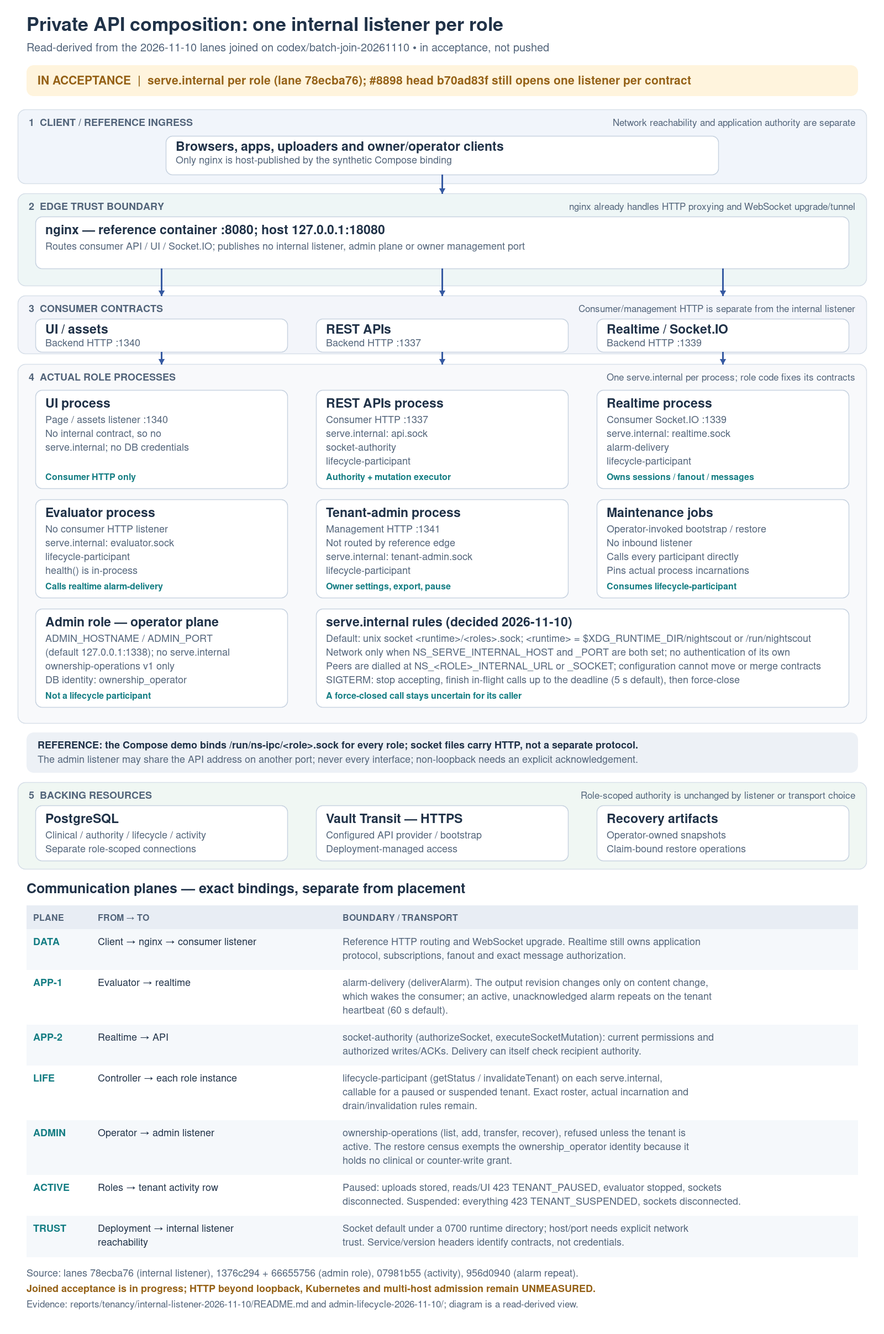
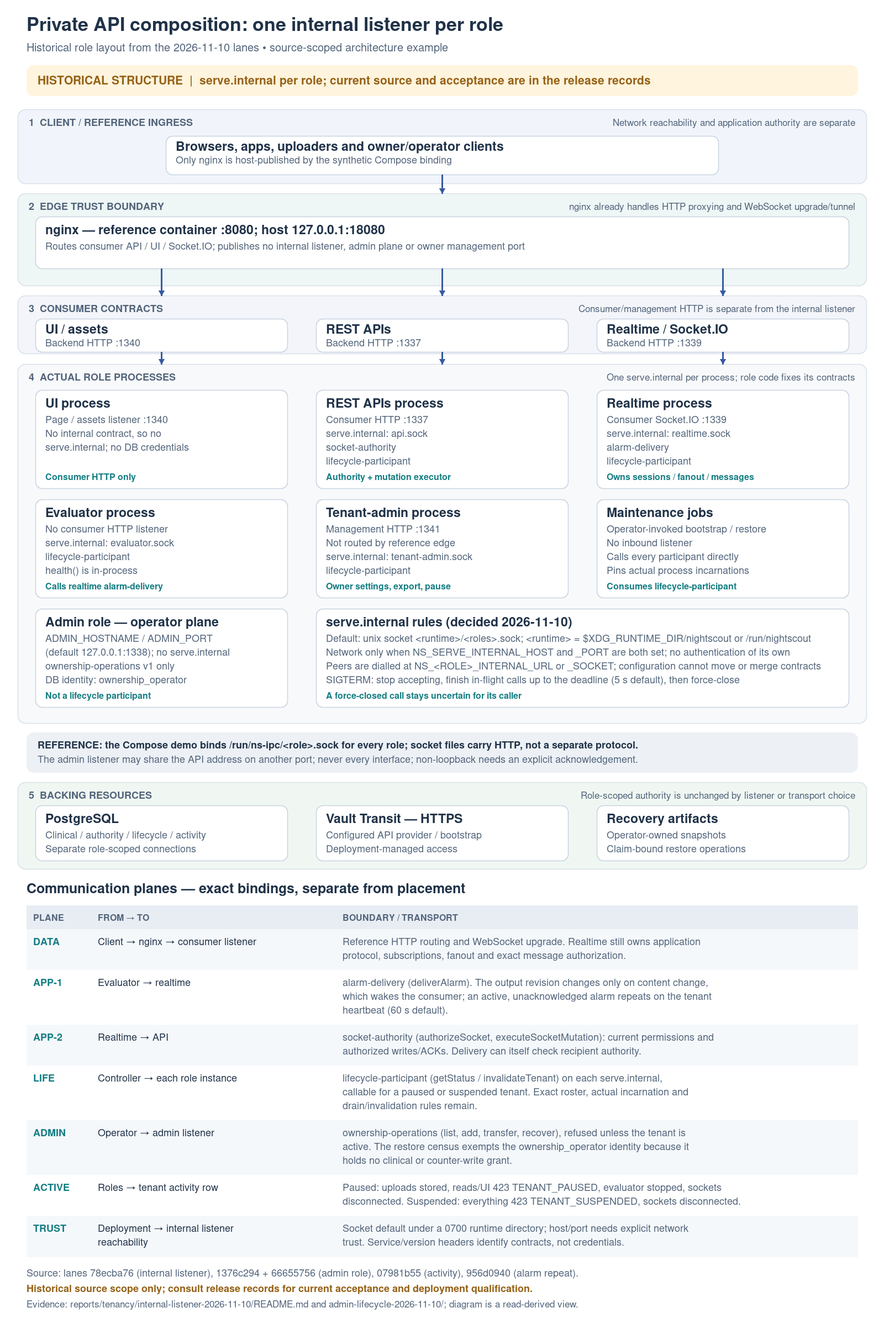
Simplify topology guidance and clarify diagram scope

diff --git a/tools/site/render_tenancy_topologies.py b/tools/site/render_tenancy_topologies.py
@@ -137,8 +137,8 @@ def accepted():
 
 
 def current():
-    p = Plate('Private API composition: one internal listener per role', 'Read-derived from the 2026-11-10 lanes joined on codex/batch-join-20261110 • in acceptance, not pushed',
-        'IN ACCEPTANCE  |  serve.internal per role (lane 78ecba76); #8898 head b70ad83f still opens one listener per contract', True)
+    p = Plate('Private API composition: one internal listener per role', 'Historical role layout from the 2026-11-10 lanes • source-scoped architecture example',
+        'HISTORICAL STRUCTURE  |  serve.internal per role; current source and acceptance are in the release records', True)
     p.zone(198, 134, '1  CLIENT / REFERENCE INGRESS', 'Network reachability and application authority are separate', '#f1f5fb')
     p.card(300, 246, 1000, 'Browsers, apps, uploaders and owner/operator clients', ['Only nginx is host-published by the synthetic Compose binding'], h=70)
     p.arrow([(800,316),(800,350)])
@@ -183,13 +183,13 @@ def current():
         ('TRUST','Deployment → internal listener reachability','Socket default under a 0700 runtime directory; host/port needs explicit network trust. Service/version headers identify contracts, not credentials.'),
     ])
     p.text(48,y+36,'Source: lanes 78ecba76 (internal listener), 1376c294 + 66655756 (admin role), 07981b55 (activity), 956d0940 (alarm repeat).',18,MUTED)
-    p.text(48,y+64,'Joined acceptance is in progress; HTTP beyond loopback, Kubernetes and multi-host admission remain UNMEASURED.',18,AMBER,'600')
+    p.text(48,y+64,'Historical source scope only; consult release records for current acceptance and deployment qualification.',18,AMBER,'600')
     p.text(48,y+92,'Evidence: reports/tenancy/internal-listener-2026-11-10/README.md and admin-lifecycle-2026-11-10/; diagram is a read-derived view.',17,MUTED)
     return p.finish(y+105,'current-internal-api-topology')
 
 
 def proposed():
-    p=Plate('Proposed fixed-roster API-scale target','One serve.internal per role instance • deployment-selected socket or host/port • exact maintenance instances','PROPOSED SCALE — NOT IMPLEMENTED  |  Starts from one internal listener per role (in acceptance)',True)
+    p=Plate('Fixed-roster API-scale placement example','One serve.internal per role instance • deployment-selected socket or host/port • exact maintenance instances','PLACEMENT EXAMPLE  |  Replica mechanisms and qualification are separate; no capacity or production claim',True)
     p.zone(198,115,'1  PUBLIC / DMZ', 'DNS supplies reachability, not permission', '#f1f5fb')
     p.card(300,241,1000,'Clients / browsers → public DNS name',['Permanent or temporary name binds to current tenant/access policy'],h=64)
     p.arrow([(800,305),(800,332)])
@@ -221,8 +221,8 @@ def proposed():
     p.text(68,1387,'OIDC IdP ↔ optional shared human-session integration: separate current-authority adapter; no implicit DATA/root grant.',19,MUTED)
     y=p.table(1472,[
         ('DATA','Edge → UI / API service / realtime','TLS public ingress; tenant selection, current access policy and client authority still apply. Public operator ingress is forbidden.'),
-        ('N1','Realtime → REST service → replica A or B','socket-authority on each replica serve.internal; replica routing is proposed. Deployment controls access; existing tenant/client authority remains.'),
-        ('N2','Evaluator singleton → realtime singleton','Same alarm-delivery contract over selected binding. Remote deployment acceptance remains open. Realtime replication needs separate fanout ownership.'),
+        ('N1','Realtime → REST service → replica A or B','socket-authority on each replica serve.internal; the binding selects routing. Deployment controls access; existing tenant/client authority remains.'),
+        ('N2','Evaluator singleton → realtime singleton','Same alarm-delivery contract over selected binding. Qualify the selected remote binding. Realtime replication needs separate fanout ownership.'),
         ('C1…C5','Controller → each exact role instance','lifecycle-participant on each instance serve.internal. Complete roster and pinned incarnation remain mandatory; a load-balanced sample is insufficient.'),
         ('OPS','Monitoring → each private listener','Proposed health/readiness/metrics contract on serve.internal with fixed method/path registration and operation-specific lifetime rules. No metrics API is implied by a worker box.'),
         ('EDGE','nginx / gateway → decision projection','Optional JSON/status/header projection of existing application authority for gateway consumers. Direct app-to-app APIs keep the same authority without a mandatory gateway hop or authentication redesign. Message/write gates remain.'),
@@ -230,7 +230,7 @@ def proposed():
         ('OWNER','Owner client → authenticated private control','Separately authenticated listener or admitted edge route. Optional OIDC requires its own joined provider/session acceptance; operator control remains private.'),
         ('ADMIN','Operator → admin listener','ownership-operations on the operator plane (ADMIN_HOSTNAME/ADMIN_PORT) with its own ownership_operator identity; not a lifecycle participant and not scaled with API replicas.'),
     ])
-    p.text(48,y+36,'Remaining: operational contract, remote binding qualification, fixed-roster replicas and their acceptance (work plan).',18,AMBER,'600')
+    p.text(48,y+36,'Qualify the selected binding, exact replica roster and operating limits; use release records for current work state.',18,AMBER,'600')
     p.text(48,y+64,'Acceptance: public/private isolation, no self-blocking control drain, exact roster, replacement, ambiguity and pool/load bounds.',18,MUTED)
     p.text(48,y+92,'No dynamic API membership, replicated realtime or production/HA claim. MT-EVALUATOR-PARTITION is separate M7 work.',18,AMBER,'600')
     p.text(48,y+120,'Design source: docs/30-design/tenancy/runtime-topology.md and selectable-endpoints-and-api-scaling-plan.md.',17,MUTED)

diff --git a/docs/30-design/tenancy/runtime-topology.md b/docs/30-design/tenancy/runtime-topology.md
@@ -7,6 +7,40 @@ records. This Markdown generates the site's `runtime-topology.html`. The
 implementation and acceptance criteria; the [queue](../../../queue/work-queue.yaml)
 owns claimed work state. A diagram is not deployment or capacity acceptance.*
 
+## Reuse the components across profiles
+
+A deployment profile selects where the same roles run and how they share work.
+Configuration can select a supported capability. It cannot supply missing ownership,
+migration or recovery behavior.
+
+```mermaid
+flowchart TB
+  R["Reusable roles: API, evaluator, realtime, admin and change feed"]
+  R --> S["Small group<br/>Roles can share a host"]
+  R --> O["Operator deployment<br/>Scale roles separately"]
+  R -.-> F["Proposed fleet<br/>Several bounded deployment groups"]
+  S --> C["Same authority, write, ownership and recovery contracts"]
+  O --> C
+  F -.-> C
+```
+
+The arrows show composition choices, not an upgrade sequence or a capacity claim.
+Fleet placement and tenant moves need separate design and qualification.
+The [scale envelopes](#scale-envelopes-and-fleet-planning) define the evidence needed
+for each profile. The [deployment guide](deployment-bindings-and-public-names.md#experiment-rigs-and-deployment-recipes)
+distinguishes experimental rigs from operating recipes.
+
+| Term | Meaning here |
+|---|---|
+| Role | A responsibility, such as serving API requests or evaluating tenant data. |
+| Replica | Another instance of a role. It needs a valid work-assignment rule. |
+| Cohort | The declared processes that cooperate on a workload and its maintenance. |
+| Instance / incarnation | An actual process / one lifetime of that process. A replacement has a new incarnation. |
+| Shard / partition | A selected share of tenant work. The role's assignment rule determines its owner. |
+| Cell | A proposed bounded deployment, datastore and recovery unit. Several cells could form a fleet. |
+| Admission / fencing | Checks that permit work / controls that prevent an old or invalid actor from continuing it. |
+| Hint / checkpoint | A signal to inspect authoritative state / a position or revision in a named input stream or snapshot. Its contract states what completion it proves. |
+
 ## Read the diagrams
 
 The three plates preserve different architectural scopes: the historical accepted
@@ -64,15 +98,15 @@ lifecycle-participant; realtime serves alarm-delivery and lifecycle-participant;
 tenant-admin serve lifecycle-participant. A process with no contract (UI) opens none. The default is a
 unix socket under the runtime directory; host/port is set explicitly by environment. On shutdown the
 listener finishes in-flight calls up to a deadline ([graceful shutdown](../../../releases/cgm-remote-monitor-16.0.0/decisions.md#internal-listener-graceful-shutdown)).
-The `admin` role keeps its own operator-plane listener (`ADMIN_HOSTNAME`/`ADMIN_PORT`) for
-ownership operations, with its own `ownership_operator` database identity; it is not a lifecycle
-participant ([restore census](../../../releases/cgm-remote-monitor-16.0.0/decisions.md#restore-census-and-ownership-phase),
+The `admin` role serves ownership operations on its operator listener
+(`ADMIN_HOSTNAME`/`ADMIN_PORT`). It uses the `ownership_operator` database identity.
+It is not a lifecycle participant ([restore census](../../../releases/cgm-remote-monitor-16.0.0/decisions.md#restore-census-and-ownership-phase),
 [same address, different port](../../../releases/cgm-remote-monitor-16.0.0/decisions.md#admin-plane-same-address-different-port)). Evaluator's in-process
 `health()` result is not a remote metrics endpoint.
 
-The private application arrows are different calls, not a generic proxy chain:
-`evaluator → realtime` delivers notifications; `realtime → API` asks for current
-permissions and forwards authorized client writes/acknowledgements. Realtime
+The private arrows show specific calls.
+`evaluator → realtime` delivers notifications.
+`realtime → API` checks current permissions and forwards authorized writes and acknowledgements. Realtime
 owns Socket.IO semantics, subscriptions and fanout. It also checks recipients'
 current permissions during delivery. That synchronous authority dependency is
 read-derived; its latency, load and failure effects need measurement.
@@ -84,12 +118,12 @@ read-derived; its latency, load and failure effects need measurement.
 
 [PNG preview](diagrams/proposed-fixed-roster-network-topology.png) · [SVG source](diagrams/proposed-fixed-roster-network-topology.svg)
 
-Keep public/management and private interfaces independently bound. The adopted
-shape ([decision](../../../releases/cgm-remote-monitor-16.0.0/decisions.md#internal-listener-ory-pattern), 2026-11-10) gives each role
-process one private listener, `serve.internal`, serving the contract modules the
-role's code selects; configuration chooses only `host`/`port` or `socket`
-(default: a unix socket under a runtime directory) and cannot move or merge
-contracts. On SIGTERM it [drains in-flight calls up to a deadline](../../../releases/cgm-remote-monitor-16.0.0/decisions.md#internal-listener-graceful-shutdown).
+Bind public, management and private interfaces separately.
+Each role has one private listener, `serve.internal`, under the
+[adopted decision](../../../releases/cgm-remote-monitor-16.0.0/decisions.md#internal-listener-ory-pattern).
+The role's code selects its contract modules. Configuration selects a socket or
+host/port; it cannot move or merge contracts. The default is a Unix socket.
+On SIGTERM, the listener [drains in-flight calls up to a deadline](../../../releases/cgm-remote-monitor-16.0.0/decisions.md#internal-listener-graceful-shutdown).
 Operational inspection is another explicit private contract; its existence does
 not imply a public metrics endpoint or complete production monitoring.
 
@@ -152,9 +186,8 @@ Cell/fleet arrangement is **PROPOSED**, requiring explicit maintainer adoption.
 This adds no gate or prerequisite to current acceptance or the pilot.*
 
 10,000 tenants is an arbitrary experimental point and current preview bound,
-not an overall product goal. Planning must cover efficient groups of 10–100
-tenants, operators serving hundreds or thousands, and a credible path to
-100,000+ tenants **in total across a fleet**. Record tenants, human users,
+not an overall product goal. Planning covers small groups of 10–100 tenants and operators with hundreds or thousands.
+It also needs a credible path to 100,000+ tenants **across a fleet**. Record tenants, human users,
 concurrent sockets, active evaluation tenants and active alarm/delivery demand
 separately; none is a multiplier implied by another. A cohort is the selected
 workload/participant scope. A proposed cell is a bounded deployment/datastore
@@ -168,36 +201,38 @@ control-plane recovery are additional responsibilities: adding replicas does
 not implement them. The existing [deployment/fault-domain guide](deployment-and-rig-testing.md#deployment-choices-and-fault-domains)
 keeps per-tenant cells distinct from shared-cohort and multi-host choices.
 
-| Envelope | Evidence needed, with exact source/profile and population | Later owner, decision trigger and smallest discriminating experiment |
+| Envelope | Evidence needed | Next bounded proof and owner |
 |---|---|---|
-| Small group: idle and steady fixed cost | Whole-stack idle/steady vCPU, RAM, storage/IOPS and dependency cost at 10–100 tenants, with identical functional/freshness/recovery checks. Include edge, UI, control, feed, PostgreSQL, Vault/Agent and selected identity/monitoring dependencies. | M7 measurement owner with deployment owner: after the frozen baseline, compare two explicitly selected profiles at one small population and the same workload; change one axis. A reproduced fixed-cost difference can motivate a packaging/profile proposal, not automatic adoption. |
-| Operator density: hundreds/thousands | Whole-stack cost per tenant-month at stated utilization, including retained data, backups, dependency charges and reserved N−1 recovery headroom. Measure correctness, data/alarm freshness and recovery ceilings under steady/hot load and loss of one selected participant or failure domain; name the actual fault scope. | Deployment/recovery owner with M7 measurement owner: run one matched-density baseline and one candidate, then one supported controlled failure/recovery. A measured bottleneck or recovery ceiling triggers review of the affected component/placement design; fewer nodes alone proves no cost advantage. |
-| Fleet: 100,000+ total path | Bound coordination/roster work and database growth per proposed unit and across units: routing, provisioning, retention, migration, backup/restore, feed/WAL and maintenance remain accounted for. Preserve tenant isolation, current authority, clinical outcomes and freshness/recovery ceilings across placement changes. | Architecture/control-plane and storage owners: first inventory boundaries, then a two-unit synthetic routing/move/recovery discriminator with independent stored-data and ownership oracles. Only an explicit reviewed adoption of placement, cross-database move and control recovery contracts can select a cell/fleet arrangement; this experiment is not fleet-capacity proof. |
+| Small group | Whole-stack fixed and marginal cost at idle and steady load. Include application, database, secrets and platform resources. | Measurement and deployment owners compare two selected profiles after the baseline. Use one population and workload; change one axis. |
+| Operator fleet | Density and total cost within freshness, correctness and recovery limits. Include capacity after the declared node or dependency failure. | Measurement and deployment owners test one stated failure on a selected topology. Check independent tenant progress and recovery before recommending a recipe. |
+| Large fleet, proposed | Bounded routing, provisioning, database growth, maintenance and recovery across deployment groups. Total fleet size is not one database's capacity. | Architecture and storage owners first inventory boundaries. A two-group synthetic move/recovery proof can inform an explicit placement and migration decision. |
 
-Design should preserve topology-independent behavior before stress testing:
-current tenant authority/revocation; committed write outcomes and uncertainty;
-owned work/checkpoint continuity; lifecycle fencing and response drain; timer
-semantics and public client contracts. Proposed compatibility seams are versioned
+Small-profile cost differences can justify packaging changes. They do not adopt a
+new production profile. Fleet experiments require independent stored-data and
+ownership checks. They do not prove fleet capacity or adopt a cell architecture.
+
+Keep the same behavior across topology choices. Preserve current tenant authority
+and revocation, committed write outcomes and uncertainty. Preserve owned work,
+checkpoints, lifecycle fencing, response drain, timer rules and public client contracts.
+Proposed compatibility seams are versioned
 internal contracts/capabilities **or explicit coordinated-upgrade refusal**, not
 a blanket mixed-version promise. Keep role instance/incarnation distinct from a
 service address, durable tenant identity distinct from a worker, and hints
 distinct from durable truth. Transport adapters share a behavioral contract;
 these seams do not require a universal framework or a new broker.
 
-For each later design brief, state the invariant and concrete code/call boundary,
-smallest necessary implementation, compatibility/migration/failure behavior,
-owner, one focused discriminating control and the evidence that would justify
-infrastructure changes. Classify it as required correctness/compatibility,
+Each design brief states the required property, affected code and smallest necessary change.
+It names the owner and explains compatibility, migration and failure behavior.
+It specifies one discriminating control and the evidence needed to justify infrastructure changes. Classify it as required correctness/compatibility,
 measured optimization, bounded prototype or deferred hypothesis. This is a
 **proposed tracking rubric**, preserving adopted decisions rather than choosing
 a fleet topology or adding current acceptance requirements.
 
 Comparative baselines and savings remain **ASSUMPTION** until reproduced with
 whole-stack resource/cost accounting, workload, retention, prices and availability
-scope. Before proposing any higher preview limit, inventory every all-roster
-O(N) path, pool/connection and file-descriptor budget, queue/backpressure bound,
-WAL/slot retention, database/index growth and complete maintenance participant
-set. Identify bounded work per request/tick and explicit degraded recovery;
+scope. Before raising a preview limit, inventory work that scans the whole tenant roster.
+Account for connection pools, file descriptors, queues, backpressure, WAL retention and database growth.
+Include every maintenance participant. Identify bounded work per request/tick and explicit degraded recovery;
 extra worker count does not remove these constraints. The maintainer adopts
 later architecture/profile choices from those measurements with the named
 owners. These envelopes neither raise current limits nor infer PostgreSQL HA,
@@ -224,10 +259,10 @@ The durable qualification questions are:
 
 These are separate from production/default admission. Gateway hooks, additional
 brokers and new fleet protocols are selected by a concrete requirement or measured
-constraint, not by diagram shape. This page owns component/topology interpretation;
-the [deployment guide](deployment-bindings-and-public-names.md#configurable-transports-and-independently-scaled-api)
-owns binding responsibilities, the [production guide](production-critical-path.md)
-owns admission sequencing, and the queue/release homes own current state.
+constraint, not by diagram shape. This page explains components and topology.
+The [deployment guide](deployment-bindings-and-public-names.md#configurable-transports-and-independently-scaled-api)
+owns binding responsibilities. The [production guide](production-critical-path.md) explains admission order.
+The queue and release records own current state.
 
 Figures are generated by
 [`render_tenancy_topologies.py`](../../../tools/site/render_tenancy_topologies.py).
@@ -269,9 +304,8 @@ must name the actual rule rather than inventing token-range metadata.
 Stable assignment intends one evaluator owner per tenant. The adopted M7 policy
 allows a bounded overlap window with idempotent effects during membership change;
 it does not establish instantaneous exactly-once execution or automatic takeover.
-Transition and duplicate-effect claims require their actual source-scoped evidence. The operational API
-must report conflicts and blocked work even when it refuses evaluation; querying
-inspection must not itself create work, acquire ownership or clear suspension.
+Transition and duplicate-effect claims require their actual source-scoped evidence. The operational API must report conflicts and blocked work, including when evaluation refuses.
+Inspection must not create work, acquire ownership or clear suspension.
 
 Evaluator is not the only component with ownership-sensitive state. A ring is
 one possible assignment mechanism, not a universal scaling rule:

diff --git a/docs/30-design/tenancy/deployment-bindings-and-public-names.md b/docs/30-design/tenancy/deployment-bindings-and-public-names.md
@@ -72,9 +72,9 @@ remain the database and admitted secret/artifact stores.
 
 A replica count of one is desired placement, not proof of unique execution.
 Kubernetes Deployments default to rolling updates, which can overlap old and new
-Pods. An initial binding can choose a controlled no-overlap update strategy, but
-must still prove safe replacement and retain application/database safeguards;
-control-plane state alone does not prove an old actor has stopped. Refer to
+Pods. A binding can use a controlled update without overlap.
+It must still prove safe replacement and retain application and database safeguards.
+Control-plane state alone does not prove an old actor has stopped. Refer to
 [Deployment strategies](https://kubernetes.io/docs/concepts/workloads/controllers/deployment/#strategy).
 Splitting the same roster across Pods or nodes requires a qualified transport,
 membership and lifetime binding; merely adding Services does not close that gap.
@@ -85,9 +85,8 @@ cover those controls as well as the existing database/Vault/edge boundary.
 
 A role box is not a mandatory service deployment. The
 [logical REST/worker placement map](runtime-topology.md#logical-rest-cohesion-and-worker-placement)
-permits cohesive data/authorization/owner REST modules with separate audiences;
-background connectors/evaluation and privileged maintenance execution have their
-own responsibilities. The [admission review](tenant-admission-and-activity.md)
+permits data, authorization and owner REST modules with separate audiences.
+Background connectors, evaluation and privileged maintenance have their own responsibilities. The [admission review](tenant-admission-and-activity.md)
 distinguishes generic participant gating from owning the restoration workflow.
 
 ### Configurable transports and independently scaled API
@@ -105,9 +104,9 @@ The [current cohort specification](https://github.com/nightscout/cgm-remote-moni
 already permits explicitly declared API replicas as separate participants.
 The [API implementation](https://github.com/nightscout/cgm-remote-monitor/blob/ed2ced00c80bd0a6a7d75f834d2c6e2af8c71364/lib/server/serve/preview-api.js#L129)
 acquires fresh request frames and exposes invalidation of local startup/readiness
-state. Stateless request handling means durable authority is external and local
-state can be reconstructed; it does not mean an instance has no connections,
-caches, in-flight responses or restore obligations.
+state. Stateless request handling keeps durable authority outside the process.
+Local state can be reconstructed. Each instance still has connections, caches,
+in-flight responses and restore obligations.
 
 The shared transport implements service schemas and named clients over UDS or
 explicit TCP/HTTP endpoints. The [original implementation record](../../../reports/tenancy/internal-service-api-2026-11-09/README.md)
@@ -115,10 +114,11 @@ and [joined acceptance](../../../reports/tenancy/m6a-join-2026-11-09/dc795bd1-ac
 retain their tested scope; current deployment qualification is recorded separately
 in [release contents](../../../releases/cgm-remote-monitor-16.0.0/contents.md).
 
-Bindings render the adopted [`serve.internal` listener](../../../releases/cgm-remote-monitor-16.0.0/decisions.md#internal-listener-ory-pattern):
-one private listener per role process, a Unix socket by default or an explicit
-`NS_SERVE_INTERNAL_HOST`/`_PORT` for network exposure, and peer addresses such as
-`NS_API_INTERNAL_URL` for callers. A dial service name may differ from the bind
+Bindings render the adopted [`serve.internal` listener](../../../releases/cgm-remote-monitor-16.0.0/decisions.md#internal-listener-ory-pattern).
+Each role process has one private listener. Its default is a Unix socket.
+Network exposure uses explicit `NS_SERVE_INTERNAL_HOST`/`_PORT` settings.
+Callers use peer addresses such as `NS_API_INTERNAL_URL`.
+A dial service name may differ from the bind
 interface. Public/management listeners remain separate. Code selects the contract
 modules; configuration cannot move them between authority planes. The binding's
 termination grace must exceed the listener's
@@ -142,15 +142,14 @@ The calls have different addressing semantics:
 | Evaluator notification to realtime | A destination whose receipt/fanout contract reaches the intended connected viewers. | Load-balancing one handoff to one realtime replica does not broadcast it to sockets on other replicas. Qualify fanout or explicit delivery ownership and durable retry/deduplication. |
 | Browser to realtime | A connection-owning realtime instance. | Socket connections, rooms and local projections are retained state. Current polling plus WebSocket compatibility needs session affinity for polling, and correct cross-instance delivery. A generic URL alone does not solve that. See [Socket.IO multiple-node guidance](https://socket.io/docs/v4/using-multiple-nodes/). |
 
-Start API scale-out with an explicit fixed roster if desired. Prove concurrent
-requests on different APIs, current revocation/config consistency, actual drain
-of an in-flight response, all-replica invalidation, replica death/replacement,
-foreign-tenant refusal and unchanged mutation replies. Database pool/connection
+Start API scale-out with an explicit fixed roster if desired. Prove concurrent requests on different APIs and current revocation and configuration checks.
+Test response drain, all-replica invalidation and replica replacement.
+Check foreign-tenant refusal and unchanged mutation replies. Database pool/connection
 limits and load tests must account for the aggregate across replicas. Ordinary
 API replication does not inherently need the evaluator's single-producer
-ownership protocol. Dynamic joins/leaves still need an admission/drain rule
-serialized with maintenance; that can use the existing authoritative database
-and does not inherently require a new consensus/discovery product.
+ownership protocol. Dynamic joins and removals need admission and drain rules serialized with maintenance.
+These can use the existing authoritative database. They do not inherently require
+a new consensus or discovery product.
 
 Preserve deadlines, cancellation, byte bounds and actual acknowledgement
 semantics across both transports. An ambiguous mutation response must not cause
@@ -159,29 +158,26 @@ than fabricating success. Network/partition tests add cases to prove; they do no
 make API scale-out theoretically invalid. Evaluator scheduling/notification
 production and realtime fanout retain their own independent ownership questions.
 
-The inspected node-multienv source provides narrower prior art: its
+The inspected node-multienv source provides narrower prior art. Its
 [redirector listener](https://github.com/bewest/node-multienv/blob/2602c94ee2f9ceefc886907f1df63ef2e172daf4/redirector-server.js#L160)
-passes configured listen values through and handles a filesystem socket, while
-[backend selection](https://github.com/bewest/node-multienv/blob/2602c94ee2f9ceefc886907f1df63ef2e172daf4/redirector-server.js#L97)
+passes configured listen values through and handles a filesystem socket.
+Its [backend selection](https://github.com/bewest/node-multienv/blob/2602c94ee2f9ceefc886907f1df63ef2e172daf4/redirector-server.js#L97)
 constructs a remote URL. This source reading does not establish one uniformly
 interchangeable Unix/HTTP/HTTPS client abstraction across that project. That historical source assessment supplies no
 transport-parity or replica runtime measurement; later evidence retains its own scope.
 
 ### Jsonnet and node-multienv integration boundary
 
-A Jsonnet or other declarative binding takes a deployment identifier, named role set,
-image/config generation, private tenant-resolution configuration, edge placement,
-resource limits and secret **references**. It should render resources and an
+A declarative binding takes a deployment identifier, role set and image/configuration generation.
+Inputs also specify tenant resolution, edge placement, resource limits and secret **references**. It should render resources and an
 inspectable inventory, never embed live credentials or clinical data. Keep public
 name/access-policy records separate from internal service-discovery endpoints.
 
 The reviewed [node-multienv prior art](production-critical-path.md#prior-art-from-the-existing-projects)
 can inform renderer inputs, reconciliation, resource ownership and provisioned vs
 serving states. It does not make an existing per-site resource schema the required
-shape for shared multitenant roles. A binding is independently deliverable once
-it renders deterministically, exposes the same logical endpoints and passes the
-cold-start, restart, restore, current-authority and teardown scenarios on its
-actual topology. Renderer implementation and Kubernetes runtime equivalence have separate evidence.
+shape for shared multitenant roles. A binding must render deterministically and expose the same logical endpoints.
+Test cold start, restart, restore, current authority and cleanup on its actual topology. Renderer implementation and Kubernetes runtime equivalence have separate evidence.
 Use release records for delivered bindings; this contract does not select a new
 operator dependency or infer actual-cluster acceptance from rendered resources.
 
@@ -206,9 +202,8 @@ reproduced. Generic synthetic scenarios suffice; private service facts are not
 needed in public configuration examples.
 
 A recipe lists which configurations are supported and which upgrades require
-coordinated replacement. Protocol versions, schemas and actual role incarnations
-must agree; a service endpoint or a Kubernetes readiness response does not prove
-every API replica has initialized every relevant tenant. Ready/drain preconditions
+coordinated replacement. Protocol versions, schemas and actual role incarnations must agree.
+A service endpoint or Kubernetes readiness response does not prove every replica has initialized every relevant tenant. Ready/drain preconditions
 may precede a steady-serving or continuity window whose declared oracle requires
 zero refusals; warm refusals during that window remain failures. Intentionally
 cold/startup/refusal experiments keep their separately declared expected outcomes. Preserve exact evidence when reusing a completed component in a new
@@ -262,10 +257,9 @@ contract. Alias-bound group/policy behavior and schedule precedence need a bound
 decision packet before claiming the feature. Ordinary production identity
 acceptance does not imply these richer sharing policies are already implemented.
 
-Evidence for an admitted policy includes synthetic anonymous/allowed/blocked
-users, overlapping groups, membership revocation, issuer outage, exact schedule
-boundaries, alias rotation/reassignment, cached/reconnected sockets and independent
-stored effects. Exercise every exposed path. OIDC-provider outage follows the adopted bounded-existing-access rule with
+Use synthetic anonymous, allowed and blocked users to test a policy.
+Include overlapping groups, revocation, issuer outage and exact schedule boundaries.
+Test alias rotation and reassignment, cached and reconnected sockets, and independent stored effects. Exercise every exposed path. OIDC-provider outage follows the adopted bounded-existing-access rule with
 current local authority still available. If current alias/group/schedule authority
 cannot be established, refuse the protected operation; never expand permissions. The first production scope must state which of these public-name
 features it offers and qualify those features before publication of user data.

diff --git a/docs/30-design/tenancy/production-critical-path.md b/docs/30-design/tenancy/production-critical-path.md
@@ -118,10 +118,9 @@ explains authentication, group policy and native credential preservation.
 
 ## Prior art from the existing projects
 
-Reuse the operational lessons: initialize durable resources before serving;
-separate public names from stable tenant identity; make ownership, deletion,
-consent and partial provisioning explicit; preserve data and keys independently
-of compute. Existing per-tenant process designs do not establish shared-role
+Initialize durable resources before serving. Separate public names from stable tenant identity.
+Make ownership, deletion, consent and partial provisioning explicit.
+Preserve data and keys independently of compute. Existing per-tenant process designs do not establish shared-role
 resource or failure limits.
 
 The [retained November source assessment](../../archive/tenancy/production-path-assessment-2026-11-10.md#prior-art-from-the-existing-projects)
